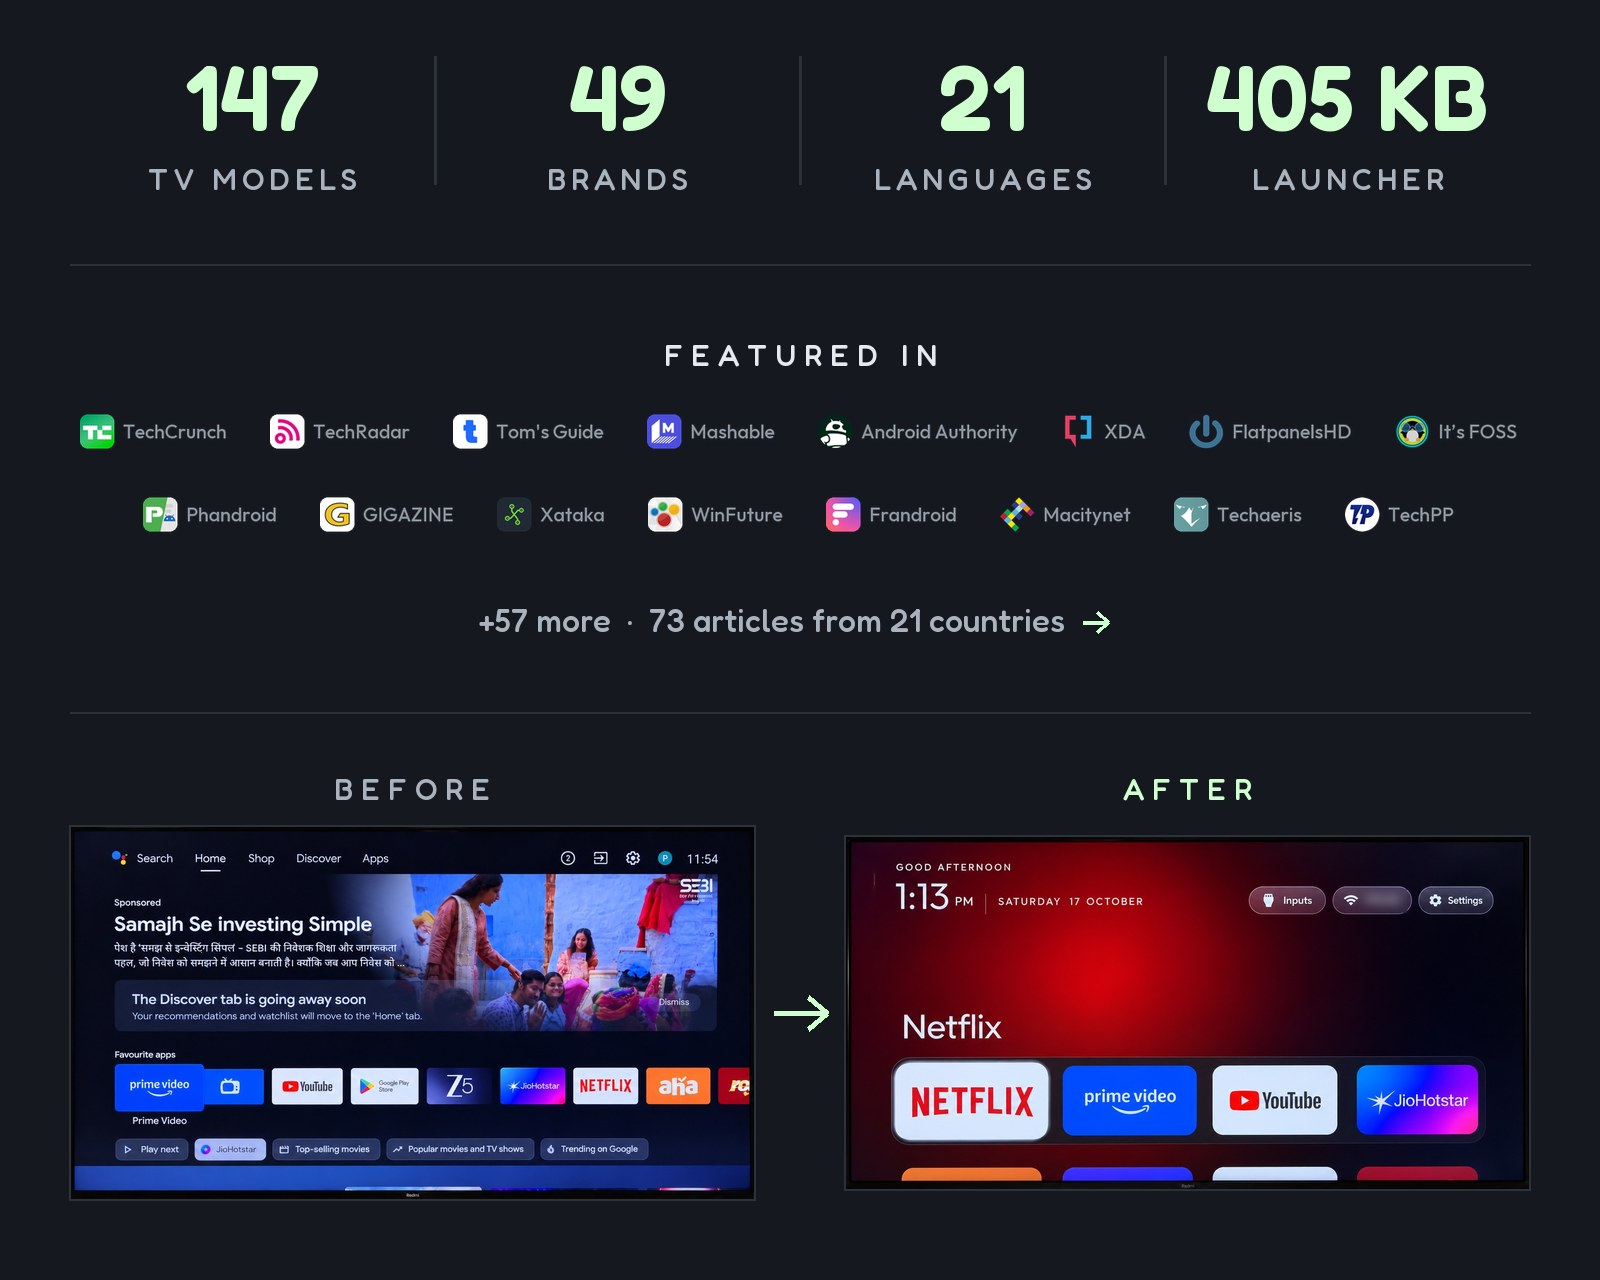
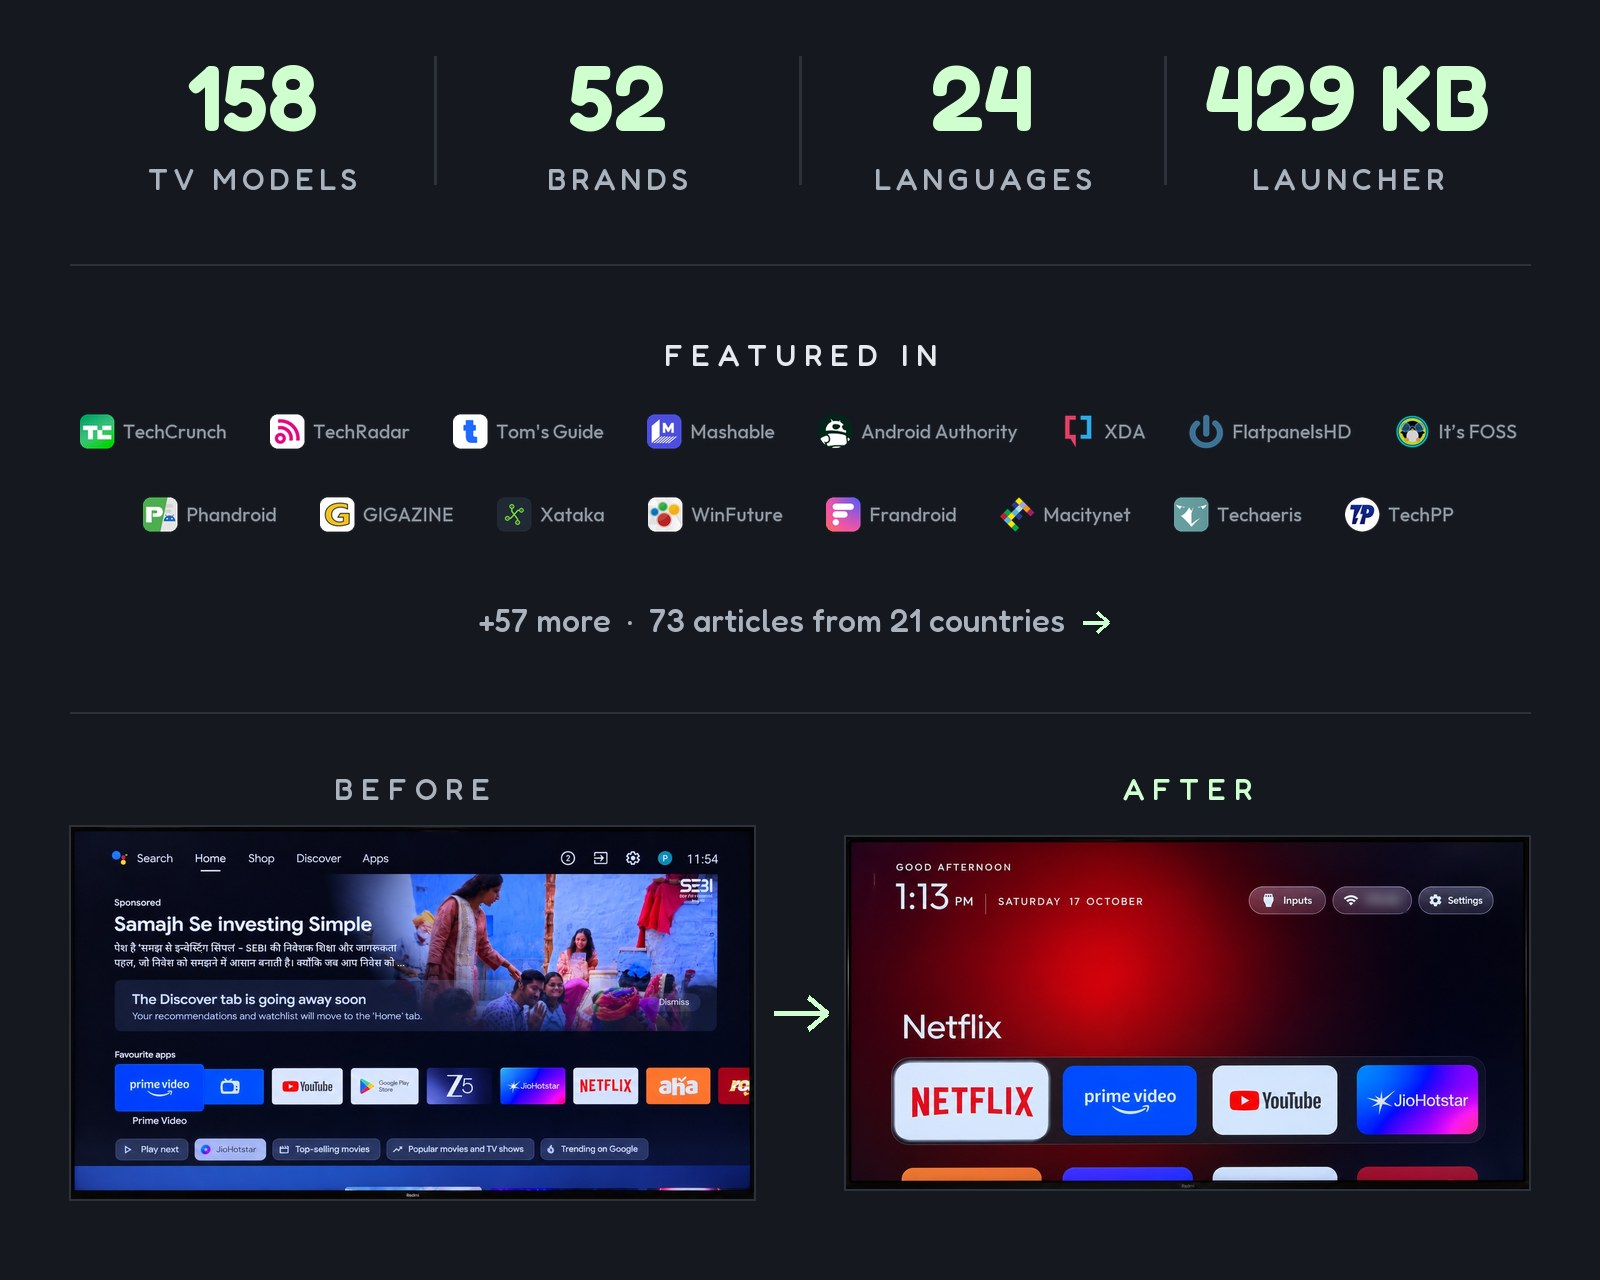
README: counts after Round L (158 TV models, 52 brands, 24 languages, 429 KB launcher)

diff --git a/tools/readme_stats.py b/tools/readme_stats.py
@@ -5,7 +5,7 @@ and rebuild the card with tools/readme_card.py. Fredoka is the variable TTF from
 import sys
 from PIL import Image, ImageDraw, ImageFont
 FONT, OUT = sys.argv[1], sys.argv[2]
-STATS = [("147", "TV MODELS"), ("49", "BRANDS"), ("21", "LANGUAGES"), ("405 KB", "LAUNCHER")]
+STATS = [("158", "TV MODELS"), ("52", "BRANDS"), ("24", "LANGUAGES"), ("429 KB", "LAUNCHER")]
 W, H = 1600, 240
 img = Image.new("RGB", (W, H), "#15181e"); d = ImageDraw.Draw(img)
 def f(size, wt):
